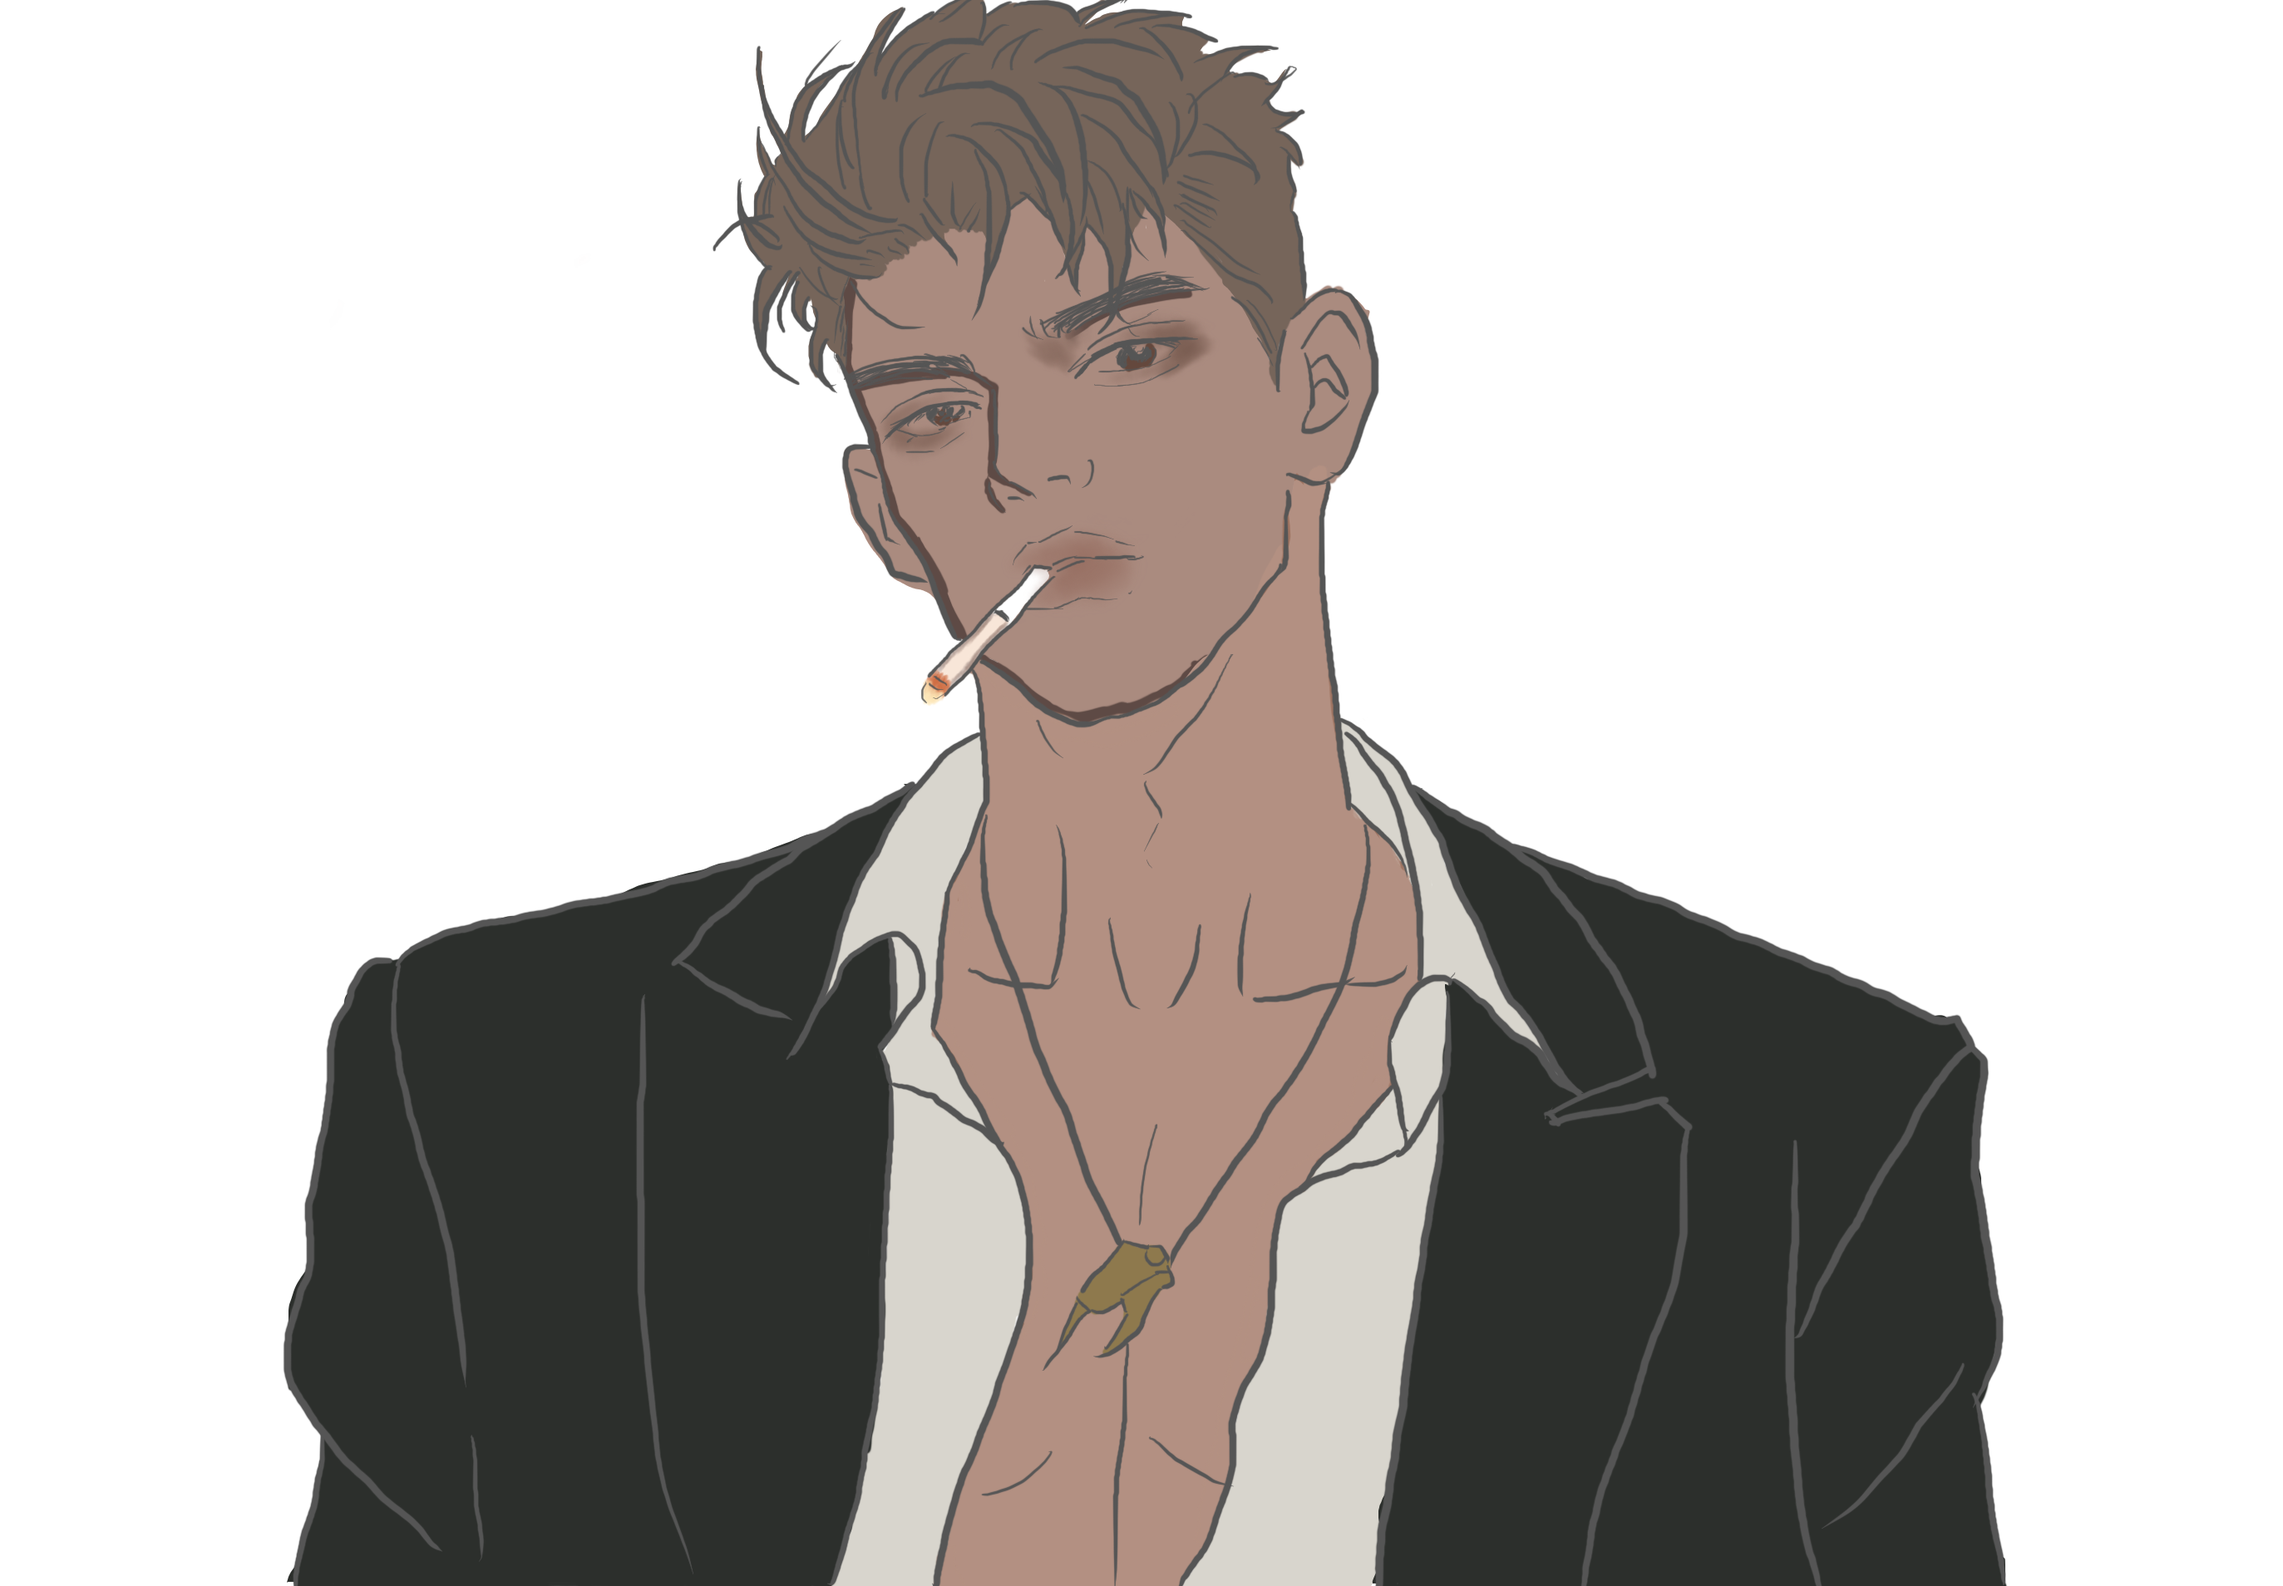
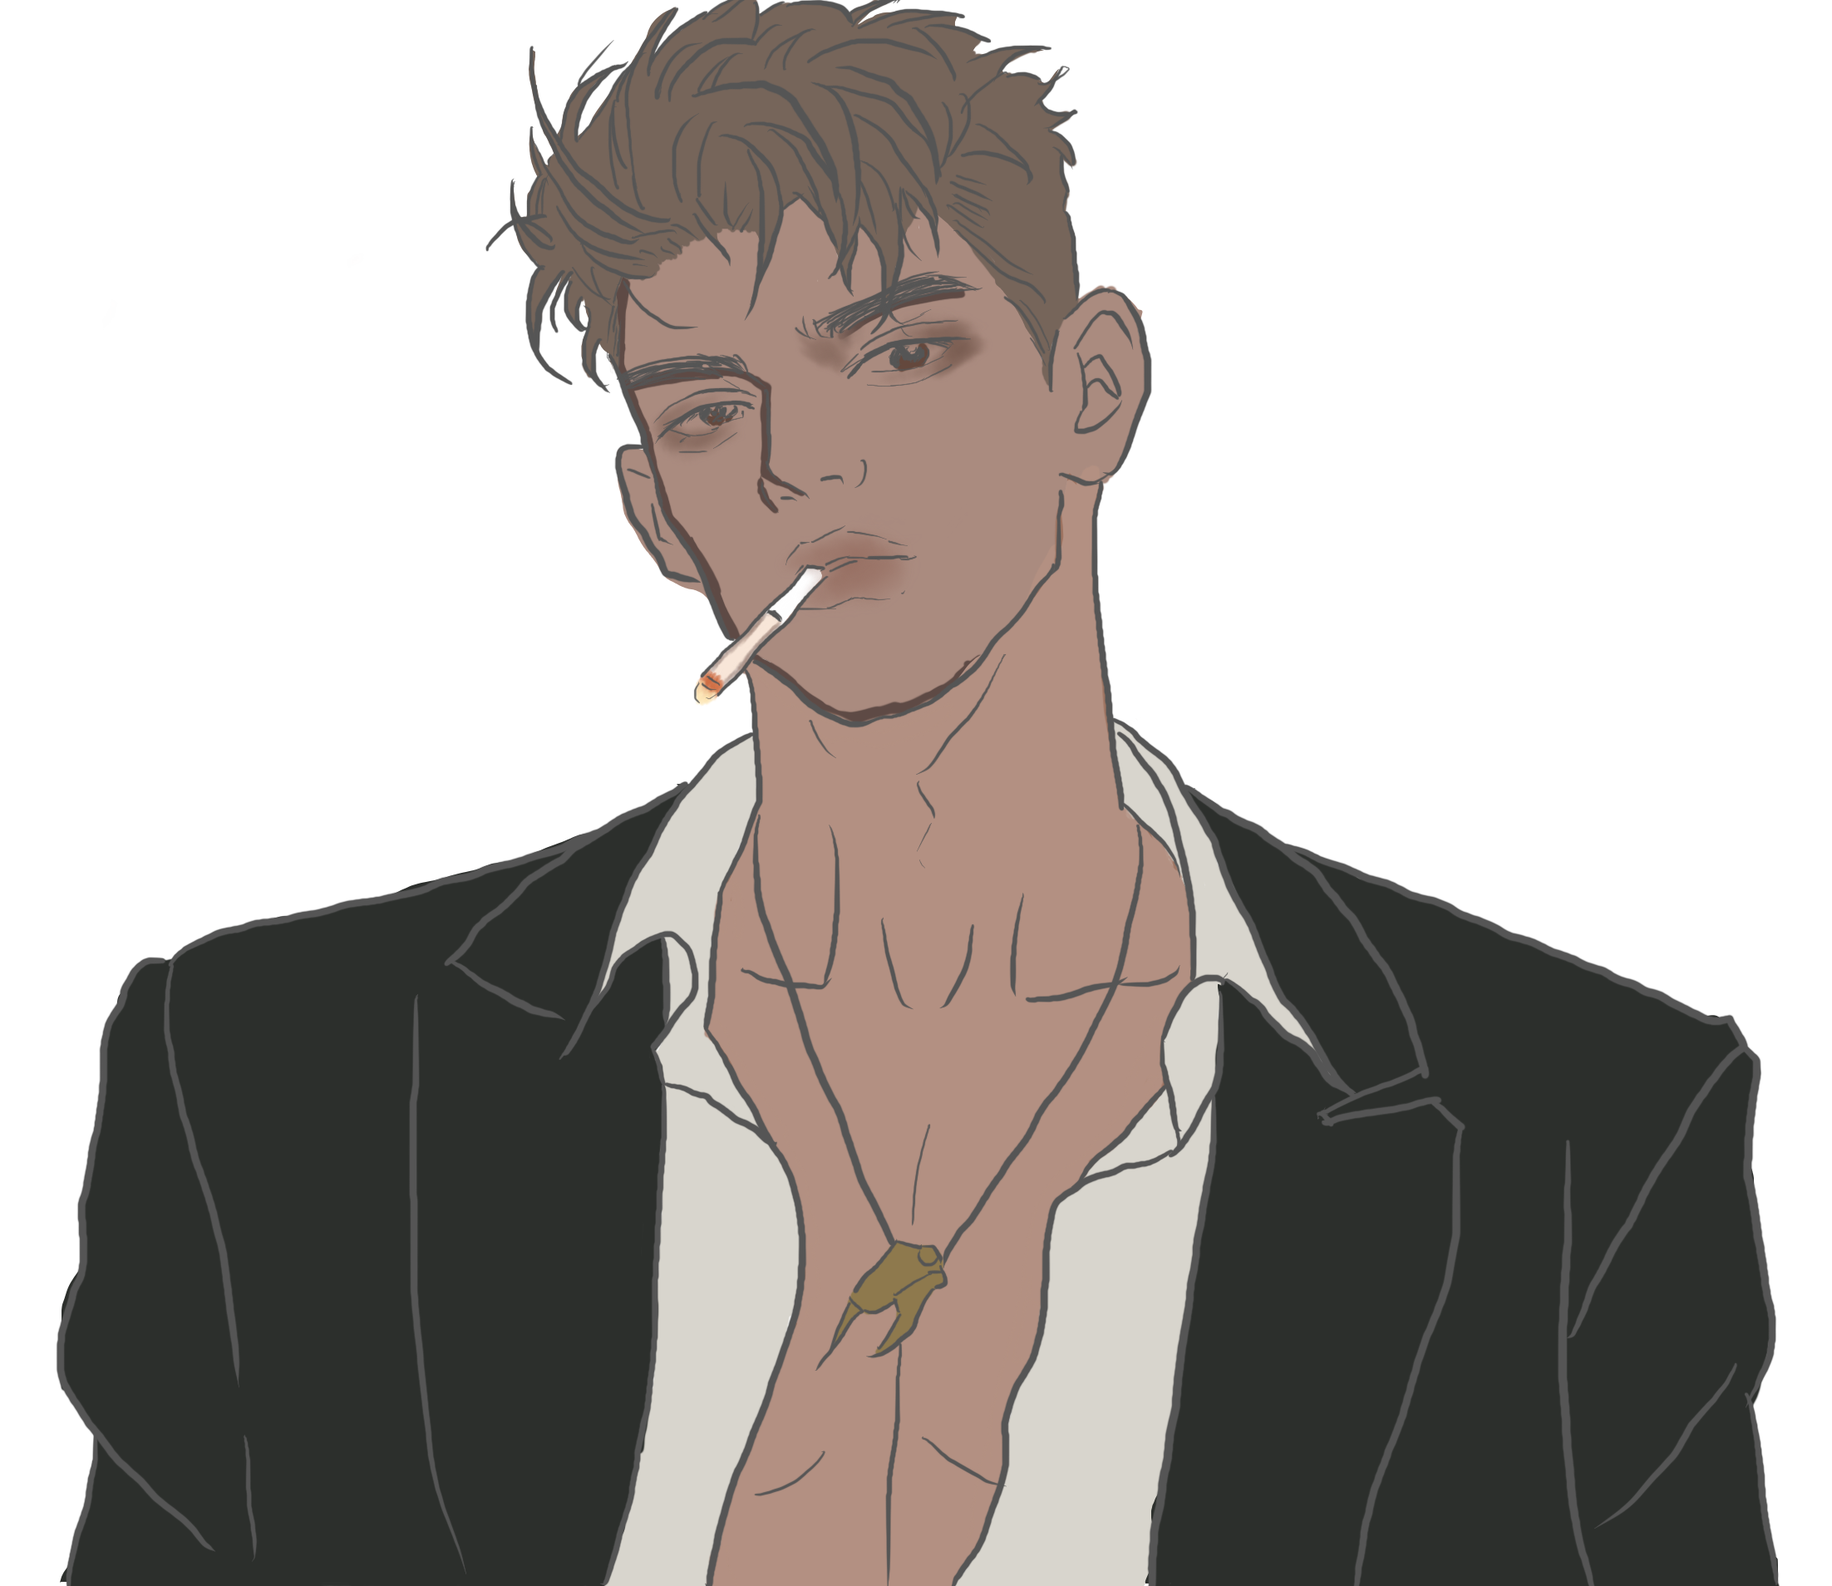
调整角色立绘显示的问题

diff --git a/css/style.css b/css/style.css
@@ -25,13 +25,17 @@ body, html {
     background-repeat: no-repeat;
 }
 
+#map-view.dialogue-active {
+    filter: brightness(0.75);
+}
+
 #player {
     position: absolute;
     background-image: url('/assets/images/player.png');
     background-size: 100px 100px;
-    cursor: default; /* 明确设置鼠标样式为默认，防止显示为文本光标 */
-    outline: none;   /* 移除浏览器在元素聚焦时可能添加的轮廓 */
-    user-select: none; /* 防止用户意外选中文本或元素 */
+    cursor: default;
+    outline: none;
+    user-select: none;
 }
 .interactable-object {
     position: absolute;
@@ -39,6 +43,9 @@ body, html {
     background-position: center;
     background-repeat: no-repeat;
     transition: opacity 0.5s ease;
+    cursor: default;
+    outline: none;
+    user-select: none;
 }
 
 /* 用于隐藏已交互物品的样式 */
@@ -67,10 +74,10 @@ body, html {
 /* 对话框使用Flexbox布局，以便更好地控制内部结构 */
 #dialogue-box {
     position: absolute;
-    bottom: 5%;
-    left: 10%;
-    right: 10%;
-    min-height: 25%; /* 使用min-height保证最小高度 */
+    bottom: 3%;
+    left: 8%;
+    right: 8%;
+    min-height: 22%; /* 使用min-height保证最小高度 */
     background-color: rgba(0, 0, 0, 0.5);
     color: white;
     border-radius: 15px;
@@ -85,24 +92,75 @@ body, html {
 
 #character-container {
     position: absolute;
-    bottom: 0;
+    /* 将容器定位在对话框上方 */
+    bottom: 31%;
     left: 0;
     right: 0;
-    height: 80%; /* 角色活动区域的高度 */
+    /* 设定一个明确的高度，防止立绘溢出到屏幕外 */
+    height: 80%;
+    max-height: 80vh; /* 同时使用 vh 单位确保在不同屏幕比例下的兼容性 */
     z-index: 10;
-    display: flex; /* 使用Flexbox来排列角色 */
-    justify-content: space-around;
-    align-items: flex-end; /* 底部对齐 */
-    gap: 2%; /* 角色之间的间距 */
+    display: flex;
+    /* 默认（单人立绘）居中 */
+    justify-content: center;
+    align-items: flex-end; /* 所有立绘底部对齐 */
     padding: 0 5%; /* 保证角色不会紧贴屏幕边缘 */
+    gap: 2%;
+    pointer-events: none;
+    cursor: default;
+    outline: none;
+    user-select: none;
 }
 
 /* 容器内所有角色立绘的通用样式 */
 #character-container img {
-    height: 100%;
-    object-fit: contain;
-    /* 所有的立绘都将拥有柔和的过渡效果，无论是出现、消失还是光影变化 */
+    /* 限制图片最大高度为父容器高度，防止溢出 */
+    max-height: 100%;
+    /* 限制图片最大宽度，防止过宽的图片溢出 */
+    max-width: 50%; /* 对于单张图片，最大宽度设为容器的一半，避免过大 */
+    object-fit: contain; /* 保持图片原始比例缩放 */
     transition: all 0.4s ease-in-out;
+}
+
+/* 双人立绘的布局 */
+#character-container.two-characters {
+    justify-content: space-between; /* 将两个立绘分别推向容器的两侧 */
+}
+#character-container.two-characters img {
+    max-width: 40%; /* 稍微减小最大宽度，为中间留出空隙 */
+}
+
+
+/* 多人（3个及以上）立绘的布局 */
+#character-container.multi-characters {
+    justify-content: space-between; /* 将“说话者”和“其他人”两个组推向两侧 */
+}
+
+/* 为多人场景下的分组添加样式 */
+#character-container .speaker-group,
+#character-container .other-group {
+    display: flex;
+    align-items: flex-end;
+    height: 100%;
+    flex-basis: 55%;
+}
+
+/* 说话者组（左侧） */
+#character-container .speaker-group {
+    justify-content: flex-start;
+}
+/* 其他人组（右侧） */
+#character-container .other-group {
+    justify-content: flex-end;
+    /* 防止组内图片宽度超出组的边界 */
+    flex-wrap: nowrap;
+    overflow: hidden;
+}
+
+#character-container .other-group img {
+    /* 为右侧的多个立绘创建一些重叠效果 */
+    margin-left: -10%;
+    max-width: 40%;
 }
 
 .dimmed {

diff --git a/js/game/modules/dialogue_renderer.js b/js/game/modules/dialogue_renderer.js
@@ -27,27 +27,59 @@ export function renderDialogue(dialogueState, elements, onOptionClick) {
     } else {
         characterName.style.display = 'block';
         characterName.innerText = currentNode.speaker;
-        const sceneCharacters = dialogueState.currentScene.map(c => c.id);
-        const displayedCharacters = Array.from(characterContainer.children).map(img => img.dataset.characterId);
-        displayedCharacters.forEach(id => {
-            if (!sceneCharacters.includes(id)) {
-                characterContainer.querySelector(`[data-character-id="${id}"]`).remove();
-            }
-        });
-        dialogueState.currentScene.forEach(character => {
-            let spriteImg = characterContainer.querySelector(`[data-character-id="${character.id}"]`);
-            if (!spriteImg) {
-                spriteImg = document.createElement('img');
-                spriteImg.dataset.characterId = character.id;
+        const scene = dialogueState.currentScene;
+        const speakerId = currentNode.speaker;
+
+        // 1. 清理舞台
+        characterContainer.innerHTML = '';
+        characterContainer.className = 'character-container';
+
+        // 2. 根据场景人数应用不同布局
+        if (scene.length === 1) {
+            // 单人：直接添加，CSS默认居中
+            const character = scene[0];
+            const spriteImg = document.createElement('img');
+            spriteImg.src = character.sprite;
+            characterContainer.appendChild(spriteImg);
+
+        } else if (scene.length === 2) {
+            // 双人：添加 'two-characters' 类，CSS将它们分布在两侧
+            characterContainer.classList.add('two-characters');
+            scene.forEach(character => {
+                const spriteImg = document.createElement('img');
                 spriteImg.src = character.sprite;
+                // 非说话者变暗
+                spriteImg.classList.toggle('dimmed', character.id !== speakerId);
                 characterContainer.appendChild(spriteImg);
-            }
-            if (dialogueState.currentScene.length === 1) {
-                spriteImg.classList.remove('dimmed');
-            } else {
-                spriteImg.classList.toggle('dimmed', character.id !== currentNode.speaker);
-            }
-        });
+            });
+
+        } else if (scene.length > 2) {
+            // 多人：添加 'multi-characters' 类，并创建左右分组
+            characterContainer.classList.add('multi-characters');
+
+            const speakerGroup = document.createElement('div');
+            speakerGroup.className = 'speaker-group';
+
+            const otherGroup = document.createElement('div');
+            otherGroup.className = 'other-group';
+
+            scene.forEach(character => {
+                const spriteImg = document.createElement('img');
+                spriteImg.src = character.sprite;
+
+                if (character.id === speakerId) {
+                    // 说话者放入左侧分组
+                    speakerGroup.appendChild(spriteImg);
+                } else {
+                    // 其他人放入右侧分组并变暗
+                    spriteImg.classList.add('dimmed');
+                    otherGroup.appendChild(spriteImg);
+                }
+            });
+
+            characterContainer.appendChild(speakerGroup);
+            characterContainer.appendChild(otherGroup);
+        }
     }
 
     // --- 渲染选项 ---

diff --git a/js/game/modules/world/dialogue.js b/js/game/modules/world/dialogue.js
@@ -7,7 +7,8 @@ const elements = {
     characterName: document.getElementById('character-name'),
     dialogueText: document.getElementById('dialogue-text'),
     dialogueOptionsContainer: document.getElementById('dialogue-options-container'),
-    itemImageContainer: document.getElementById('item-image-container')
+    itemImageContainer: document.getElementById('item-image-container'),
+    mapView: document.getElementById('map-view')
 };
 
 let state = {};
@@ -35,6 +36,9 @@ export const dialogueManager = {
         onDialogueEndCallback = onEnd;
         window.gameMode = 'dialogue';
         elements.dialogueView.classList.add('active');
+        if (elements.mapView) {
+            elements.mapView.classList.add('dialogue-active');
+        }
         state = {
             story: story,
             currentNodeId: story.startNode,
@@ -102,6 +106,9 @@ export const dialogueManager = {
         window.gameMode = 'map';
         elements.dialogueView.classList.remove('active');
         elements.itemImageContainer.style.display = 'none';
+        if (elements.mapView) {
+            elements.mapView.classList.remove('dialogue-active');
+        }
         if (onDialogueEndCallback) {
             onDialogueEndCallback(state.endAction);
         }
